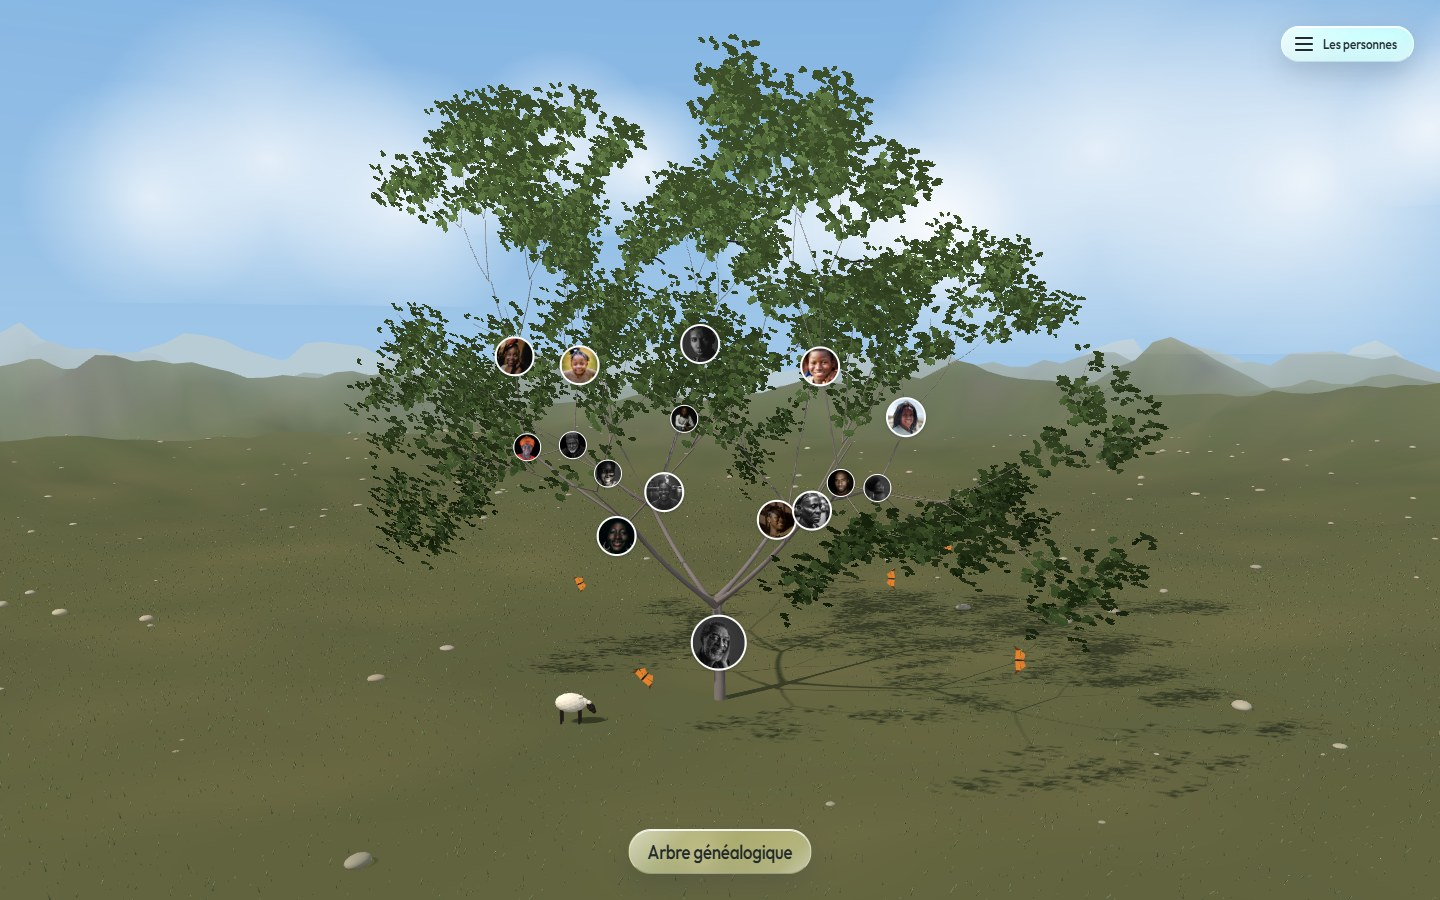
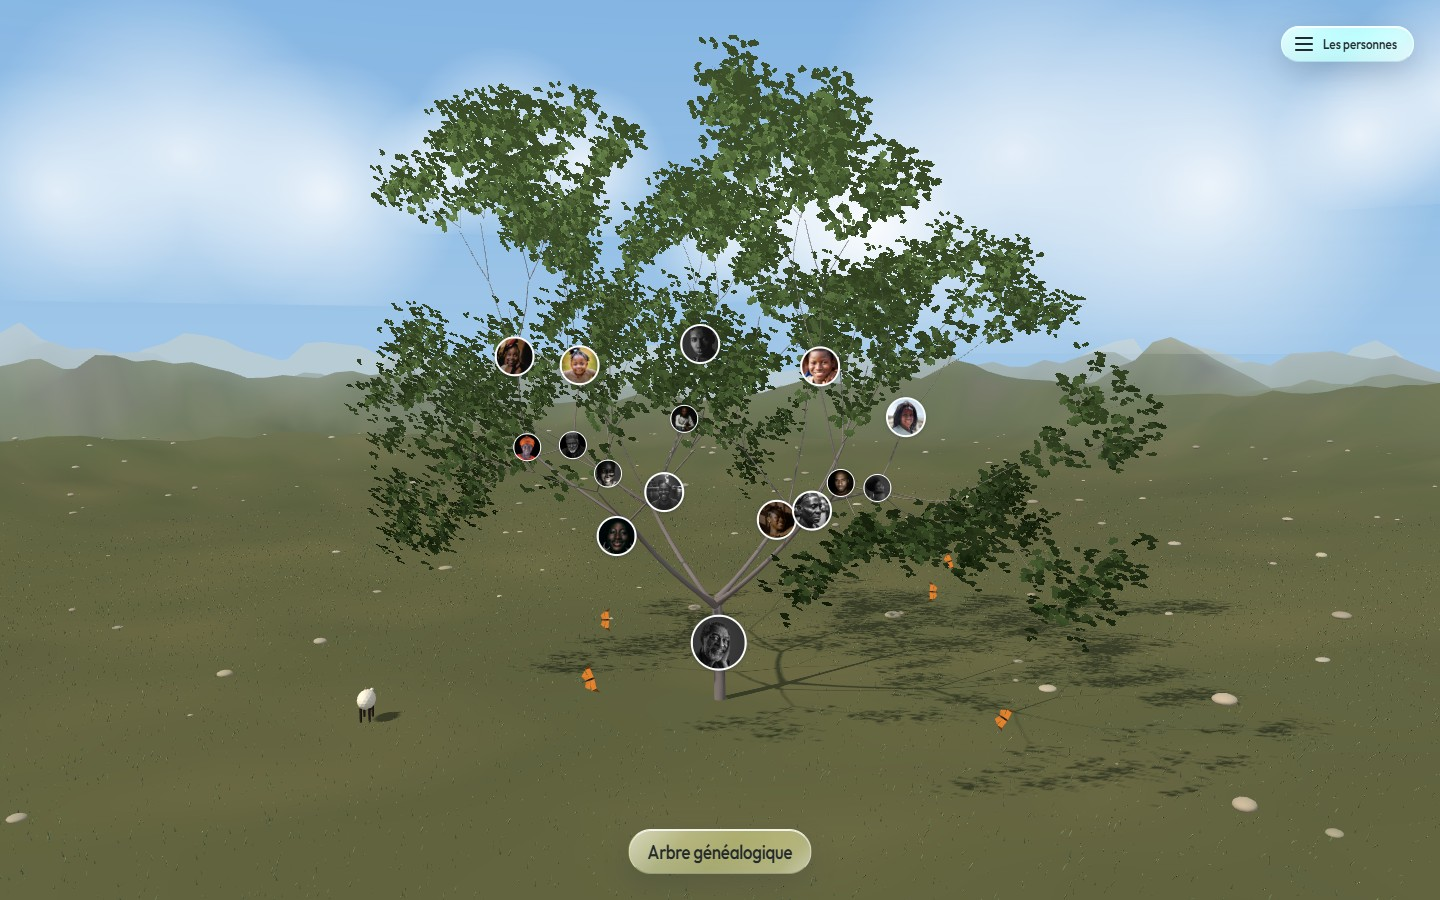
Le telephone d abord, et la barre GOD2 pour regarder les chiffres en meme temps
Le cadrage en portrait recadre plus serre au lieu de rapetisser, la visee
monte pour rendre au ciel la place qu on donnait a l herbe, les visages
grandissent d un cinquieme et la cible du doigt fait quarante-quatre pixels
sans agrandir le dessin. Les quatre bords de la page tiennent compte de
l encoche et de la barre de geste.

La barre d atelier GOD2 se pose sur un mode a part, `npm run barre`, port
5179 : jamais sur `dev`, ou le banc la compterait, jamais dans la
construction, et absente sans bruit si le dossier d outils n est pas la.

Le banc sait mesurer un autre ecran : `npm run banc:telephone` en 390 sur 844.
Mesure comparee dans la foulee, la version d avant contre celle-ci sur la meme
carte : 138,8 ms contre 129,3. Le ralentissement venait de la machine.

diff --git a/src/page.css b/src/page.css
@@ -32,6 +32,18 @@
    Les noms francais du projet sont definis a partir de ces jetons-la, et non
    l inverse : une seule table de couleurs, celle de la source. */
 :root {
+  /* La marge d ecran, et les quatre retraits de l appareil.
+
+     `viewport-fit=cover` fait passer la page sous l encoche et sous la barre
+     de geste : sans ces retraits, le titre passait derriere la barre du bas et
+     le bouton de la liste sous l encoche des telephones a coins ronds. Sur un
+     ecran sans encoche, les quatre valent zero et rien ne change. */
+  --marge: clamp(12px, 2.6vw, 26px);
+  --bord-haut: calc(var(--marge) + env(safe-area-inset-top, 0px));
+  --bord-bas: calc(var(--marge) + env(safe-area-inset-bottom, 0px));
+  --bord-gauche: calc(var(--marge) + env(safe-area-inset-left, 0px));
+  --bord-droite: calc(var(--marge) + env(safe-area-inset-right, 0px));
+
   --paper: #dfe3e2;
   --w0: #f6f8f8;
   --w1: #e9eeef;
@@ -190,7 +202,7 @@ body {
    la partie pleine de l image ; en bas il est sur la prairie, qui est vide. */
 .titre {
   position: absolute;
-  bottom: clamp(14px, 2.6vw, 26px);
+  bottom: var(--bord-bas);
   left: 50%;
   transform: translateX(-50%);
   margin: 0;
@@ -212,8 +224,8 @@ body {
    est porte par aria-controls. */
 .menu {
   position: absolute;
-  top: clamp(14px, 2.6vw, 26px);
-  right: clamp(14px, 2.6vw, 26px);
+  top: var(--bord-haut);
+  right: var(--bord-droite);
   z-index: 3;
   display: flex;
   align-items: center;
@@ -285,9 +297,9 @@ body {
      document : sans rang declare, les visages de l arbre passaient par-dessus
      le verre et les noms se lisaient a travers eux. */
   z-index: 2;
-  top: calc(clamp(14px, 2.6vw, 26px) + 52px);
-  right: clamp(14px, 2.6vw, 26px);
-  bottom: clamp(14px, 2.6vw, 26px);
+  top: calc(var(--bord-haut) + 52px);
+  right: var(--bord-droite);
+  bottom: var(--bord-bas);
   width: min(310px, 34vw);
   padding: 6px;
   border-radius: 18px;
@@ -439,6 +451,28 @@ body {
     box-shadow 0.15s var(--courbe);
 }
 
+/* La cible du doigt : quarante-quatre pixels, quoi que mesure le rond.
+
+   Sur un telephone le medaillon fait trente-deux pixels de large et le doigt
+   en couvre quarante-cinq : on visait un rond plus petit que ce qu on pose
+   dessus, et on ouvrait la fiche du voisin. La zone sensible est donc portee
+   par un pseudo-element, ce qui l agrandit sans agrandir le dessin. Elle ne
+   sort que pour un pointeur grossier : a la souris, une cible large de
+   quarante-quatre pixels ferait se recouvrir deux medaillons voisins et
+   volerait le clic de l autre. */
+@media (pointer: coarse) {
+  .plaque::after {
+    content: '';
+    position: absolute;
+    top: 50%;
+    left: 50%;
+    width: 44px;
+    height: 44px;
+    transform: translate(-50%, -50%);
+    border-radius: 50%;
+  }
+}
+
 .plaque:hover,
 .plaque:focus-visible {
   border-color: var(--ocean);
@@ -500,8 +534,8 @@ body {
 /* La fiche d une personne */
 .fiche {
   position: absolute;
-  top: clamp(14px, 2.6vw, 26px);
-  left: clamp(14px, 2.6vw, 26px);
+  top: var(--bord-haut);
+  left: var(--bord-gauche);
   width: min(330px, calc(100vw - 32px));
   padding: 20px 22px 22px;
   border-radius: 18px;
@@ -568,9 +602,9 @@ body {
      elle : les deux ne peuvent pas tenir cote a cote sur 390 pixels. */
   .legende {
     top: auto;
-    left: 12px;
-    right: 12px;
-    bottom: 12px;
+    left: var(--bord-gauche);
+    right: var(--bord-droite);
+    bottom: var(--bord-bas);
     width: auto;
     height: 46vh;
     transform-origin: 100% 100%;
@@ -584,8 +618,8 @@ body {
   /* Le mot ne tient pas a cote des barres sur 390 pixels : il reste un bouton
      rond, et c est aria-controls qui dit ce qu il ouvre. */
   .menu {
-    top: 12px;
-    right: 12px;
+    top: var(--bord-haut);
+    right: var(--bord-droite);
     padding: 11px;
     gap: 0;
   }
@@ -598,7 +632,7 @@ body {
      haut : remonte juste au-dessus du bandeau, il tombait en plein sur les
      visages de la deuxieme generation. En haut il n y a que du ciel. */
   .titre {
-    top: 12px;
+    top: var(--bord-haut);
     bottom: auto;
     padding: 7px 14px;
     font-size: 15px;
@@ -606,9 +640,9 @@ body {
 
   .fiche {
     top: auto;
-    right: 12px;
-    left: 12px;
-    bottom: 12px;
+    right: var(--bord-droite);
+    left: var(--bord-gauche);
+    bottom: var(--bord-bas);
     width: auto;
     padding: 16px 16px 18px;
     z-index: 2;
@@ -616,19 +650,34 @@ body {
 
   /* Sur trois cent quatre-vingt-dix pixels de large, les ronds se serrent :
      on les reduit d un quart plutot que de cacher des gens. */
+  /* Les visages remontent d un cinquieme : avec seize personnes au lieu de
+     trente-trois, la couronne a la place, et un visage de vingt pixels ne se
+     reconnaissait pas. */
   .plaque-visage {
-    width: 28px;
-    height: 28px;
+    width: 34px;
+    height: 34px;
   }
 
   .plaque-0 .plaque-visage {
-    width: 40px;
-    height: 40px;
+    width: 46px;
+    height: 46px;
   }
 
   .plaque-2 .plaque-visage {
-    width: 20px;
-    height: 20px;
+    width: 26px;
+    height: 26px;
+  }
+
+  /* Dans la liste aussi : un visage de vingt-six pixels sur un telephone
+     tenu a bout de bras ne dit pas qui c est. */
+  .legende-g2 .legende-visage,
+  .legende-g3 .legende-visage {
+    width: 32px;
+    height: 32px;
+  }
+
+  .legende-ligne {
+    padding: 9px 8px;
   }
 
   .plaque-decalee-haut {

diff --git a/src/decor.ts b/src/decor.ts
@@ -272,6 +272,7 @@ export function gardienDeCadence(vue: Vue): (dessiner: () => void) => void {
  * calcul, lui, se croyait juste.
  */
 export function cadrerLArbre(vue: Vue, boite: Box3): void {
+  const etroit = vue.camera.aspect < 1
   const demiHauteur = (vue.camera.fov * Math.PI) / 360
   const demiLargeur = Math.atan(Math.tan(demiHauteur) * vue.camera.aspect)
   const taille = boite.getSize(new Vector3())
@@ -279,7 +280,10 @@ export function cadrerLArbre(vue: Vue, boite: Box3): void {
   // La visee se pose au milieu de la boite, un peu bas : on regarde l arbre,
   // pas le ciel au-dessus, et laisser la visee remonter avec la cime poussait
   // l horizon hors de l image.
-  vue.gestes.target.set(0, centre.y * 0.86, 0)
+  // Un peu plus haut sur un ecran droit : la visee au milieu bas laissait un
+  // quart d ecran de pre vide sous l arbre, alors que le haut porte le ciel et
+  // ses nuages. On prefere donner cette place au ciel qu a l herbe.
+  vue.gestes.target.set(0, centre.y * (vue.camera.aspect < 1 ? 1.0 : 0.86), 0)
   const demiLarge = Math.max(taille.x, taille.z) / 2
   const demiHaut = Math.max(centre.y - boite.min.y, boite.max.y - vue.gestes.target.y)
   // Deux marges et non une : sur un ecran large c est la hauteur qui commande
@@ -303,9 +307,16 @@ export function cadrerLArbre(vue: Vue, boite: Box3): void {
   // et de l herbe vides. On recadre plutot que de rapetisser : la marge en
   // largeur passe sous un, la couronne sort du cadre par les cotes, et les
   // visages retrouvent leur taille. Ce qui deborde, ce sont des feuilles.
-  const etroit = vue.camera.aspect < 1
-  const pourLaLargeur = (demiLarge * (etroit ? 0.84 : 1.16)) / Math.tan(demiLargeur)
-  const pourLaHauteur = (demiHaut * 1.30) / Math.tan(demiHauteur)
+  //
+  // Un objectif plus long a ete essaye a la place : ca ne change rien. A
+  // largeur d arbre imposee, la hauteur couverte vaut cette largeur divisee
+  // par le rapport de l ecran, quel que soit l angle de l objectif, parce que
+  // la camera recule d autant. Le seul levier est bien la marge en largeur.
+  const pourLaLargeur = (demiLarge * (etroit ? 0.72 : 1.16)) / Math.tan(demiLargeur)
+  // Moins de marge en hauteur sur un ecran droit : le champ vertical y est
+  // enorme devant l arbre, et avec la meme marge qu en large il restait un
+  // tiers de ciel vide en haut et un tiers de pre vide en bas.
+  const pourLaHauteur = (demiHaut * (etroit ? 1.12 : 1.30)) / Math.tan(demiHauteur)
   const voulu = Math.max(pourLaLargeur, pourLaHauteur)
   // La butee de recul suit le cadrage au lieu de le contrarier.
   //

diff --git a/vite.config.ts b/vite.config.ts
@@ -1,25 +1,47 @@
 // GOD2 · Theophas Aine : le projet se construit et se sert seul.
 //
 //   npm run dev       developpement, port 5177
+//   npm run barre     developpement avec la barre GOD2, port 5179
 //   npm run build     version construite, dans dist/
 //   npm run preview   version construite servie, port 5178
 //
-// Sans barre de mesure GOD2 : celle-ci tourne en continu et le banc de la
-// piece la comptait comme un cout de l arbre.
+// La barre de mesure GOD2 n est pas posee sur `dev`, et c est voulu : elle
+// tourne en continu, et le banc de la piece la comptait comme un cout de
+// l arbre. Elle a donc son mode a elle. Ainsi on peut regarder la scene et ses
+// chiffres en meme temps sans que la mesure de reference en herite.
 
+import { existsSync } from 'node:fs'
+import { pathToFileURL } from 'node:url'
 import path from 'path'
-import { defineConfig } from 'vite'
+import { defineConfig, type PluginOption } from 'vite'
 
-export default defineConfig({
+/** La barre GOD2, si elle est la.
+ *
+ * Elle vit dans le depot d outils de la maison, a cote de celui-ci, et non
+ * dedans : ce depot-ci se clone et s installe seul, et un import ecrit en dur
+ * vers un dossier voisin le casserait chez qui ne l a pas. On la charge donc
+ * si elle existe, on le dit si elle manque, et on continue sans elle. */
+async function barreSiPresente(): Promise<PluginOption[]> {
+  const chemin = path.resolve(__dirname, '..', 'gadgets', 'god2-barre', 'index.mjs')
+  if (!existsSync(chemin)) {
+    console.log("la barre GOD2 n'est pas a cote de ce depot : on sert la page sans elle")
+    return []
+  }
+  const module = (await import(pathToFileURL(chemin).href)) as { barreGod2: () => PluginOption }
+  return [module.barreGod2()]
+}
+
+export default defineConfig(async ({ mode }) => ({
   root: __dirname,
   // Le dossier public du projet, et non celui du depot parent : les polices,
   // les visages de la famille et l icone vivent ici, pour que l arbre se
   // construise et se serve sans rien emprunter a cote.
   publicDir: path.resolve(__dirname, 'public'),
+  plugins: mode === 'barre' ? await barreSiPresente() : [],
   build: {
     outDir: path.resolve(__dirname, 'dist'),
     emptyOutDir: true,
   },
-  server: { port: 5177, strictPort: true },
+  server: { port: mode === 'barre' ? 5179 : 5177, strictPort: true },
   preview: { port: 5178, strictPort: true },
-})
+}))

diff --git a/README.md b/README.md
@@ -23,6 +23,24 @@ ou une ligne de la liste pour ouvrir la fiche. La liste des personnes est
 repliée derrière le bouton en haut à droite : l'arbre est le sujet, la liste
 est un recours. Échap referme ce qui est ouvert.
 
+Pour regarder la scène et ses chiffres en même temps :
+
+```
+npm run barre          # http://localhost:5179
+```
+
+C'est la barre d'atelier GOD2, un greffon Vite posé sur un mode à part. Le
+signe s'ouvre en bas à gauche : elle donne six écrans d'appareils avec leur
+coque, une bride de réseau réelle (3G lente, 3G rapide, 4G), et une sonde qui
+compte pendant qu'on fait défiler : images par seconde, pire image, tâches
+longues de plus de 50 ms, décalage de mise en page, premier affichage, octets
+reçus et mémoire prise.
+
+Elle n'est **pas** sur `npm run dev`, et c'est voulu : elle tourne en continu,
+et le banc la comptait comme un coût de l'arbre. Elle vit dans les outils de la
+maison à côté du dépôt ; si ce dossier n'est pas là, `npm run barre` le dit et
+sert la page sans elle. Elle ne part jamais dans `dist/`.
+
 Pour voir la version construite, celle qu'on met en ligne :
 
 ```
@@ -202,6 +220,7 @@ npm run tiers -- --casser
 npm run banc           le cout de l image sur la carte graphique
 npm run banc -- --saboter
 npm run banc -- --sans herbe      (ou terrain, pierres, ciel, meteo, bois, paysage, tout)
+npm run banc:telephone le même banc en 390 × 844, le format de référence
 npm run gardien        le gardien de cadence se fixe et se tait
 ```
 
@@ -215,17 +234,26 @@ de 2013, en 1440 × 900, au neuvième dixième et non à la moyenne. Les durées
 lues sur la carte : le banc lit un pixel après chaque image, ce qui l'oblige à
 avoir fini.
 
-| | image | triangles | appels |
+| écran | image | triangles | appels |
 |---|---|---|---|
-| pleine résolution, 33 personnes | 64,0 à 68,6 ms | 549 006 | 12 |
-| pleine résolution, 16 personnes | non repris au calme | 525 156 | 13 |
+| 1440 × 900 | 129,3 ms | 525 156 | 13 |
+| 390 × 844, `npm run banc:telephone` | 74,3 ms | 521 916 | 11 |
 
-La version à seize personnes a moins de triangles et un appel de plus, pour la
-tête du mouton qui s'abaisse à part. Sa durée n'a pas pu être mesurée
-proprement : pendant le passage, la même carte rendait aussi la page ouverte
-dans un autre navigateur, et la médiane a sauté de 50 à 112 ms d'un passage à
-l'autre pour le même code. Un chiffre pareil ne dit rien de la scène ; il n'est
-pas reporté ici.
+**Ces durées ne se comparent qu'entre elles, dans le même passage.** Cette
+carte ne rend pas la même chose d'une heure à l'autre : le même code a donné
+50 ms de médiane le matin et 112 l'après-midi. Un chiffre pris seul ne dit donc
+rien. Ce qui dit quelque chose, c'est l'écart mesuré dans la foulée, la version
+d'avant et celle d'après servies l'une après l'autre :
+
+| | neuvième dixième | médiane | triangles |
+|---|---|---|---|
+| 33 personnes, commit `bb8badc` | 138,8 ms | 114,6 ms | 549 006 |
+| 16 personnes | 129,3 ms | 112,3 ms | 525 156 |
+
+La version allégée est donc un peu plus rapide, et non l'inverse. Le
+téléphone coûte 74 ms pour six fois moins de pixels que le grand écran : le
+coût n'est pas dans le remplissage, il est dans les triangles et la passe
+d'ombre. C'est là qu'il faudra couper.
 
 Le gardien de cadence mesure le vrai coût d'une image sur dix. Au-dessus de
 seize millisecondes il lâche, un palier à chaque constat, la finesse de la
@@ -240,7 +268,12 @@ comme elle est transparente, le fond pâle de la page passait à sa place pendan
 une image. C'était le clignotement. Elle est maintenant redessinée dans la même
 image.
 
-Deux mesures qui ont changé le code plus que n'importe quel raisonnement :
+Trois mesures qui ont changé le code plus que n'importe quel raisonnement :
+
+- le tracé des oiseaux fabriquait six petits tableaux par segment et par
+  image, près de mille par image : le ramasse-miettes prenait une image
+  entière de temps en temps. La médiane tenait à 50 ms, le neuvième dixième
+  montait à 120. Les bords passent maintenant par un tableau fixe ;
 
 - le flou du verre à 24 pixels de rayon sur trois panneaux faisait passer
   l'image de 68 à 158 ms, et le filtre de réfraction SVG la poussait à 278. Le
